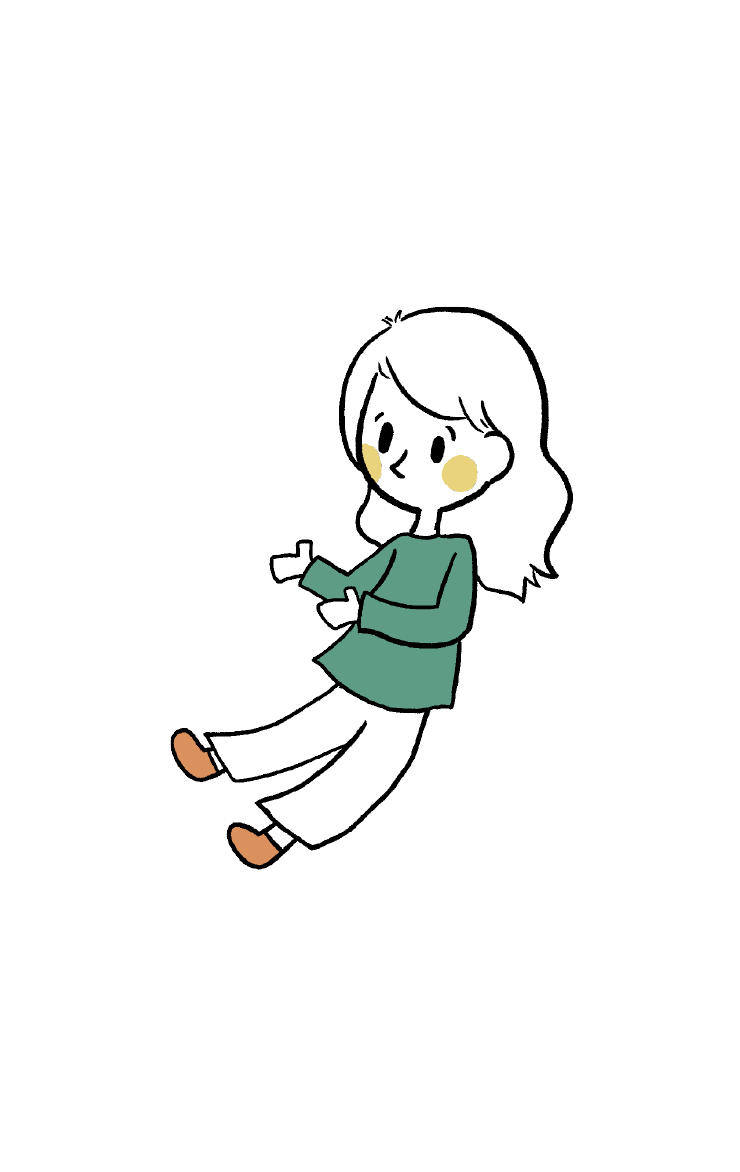
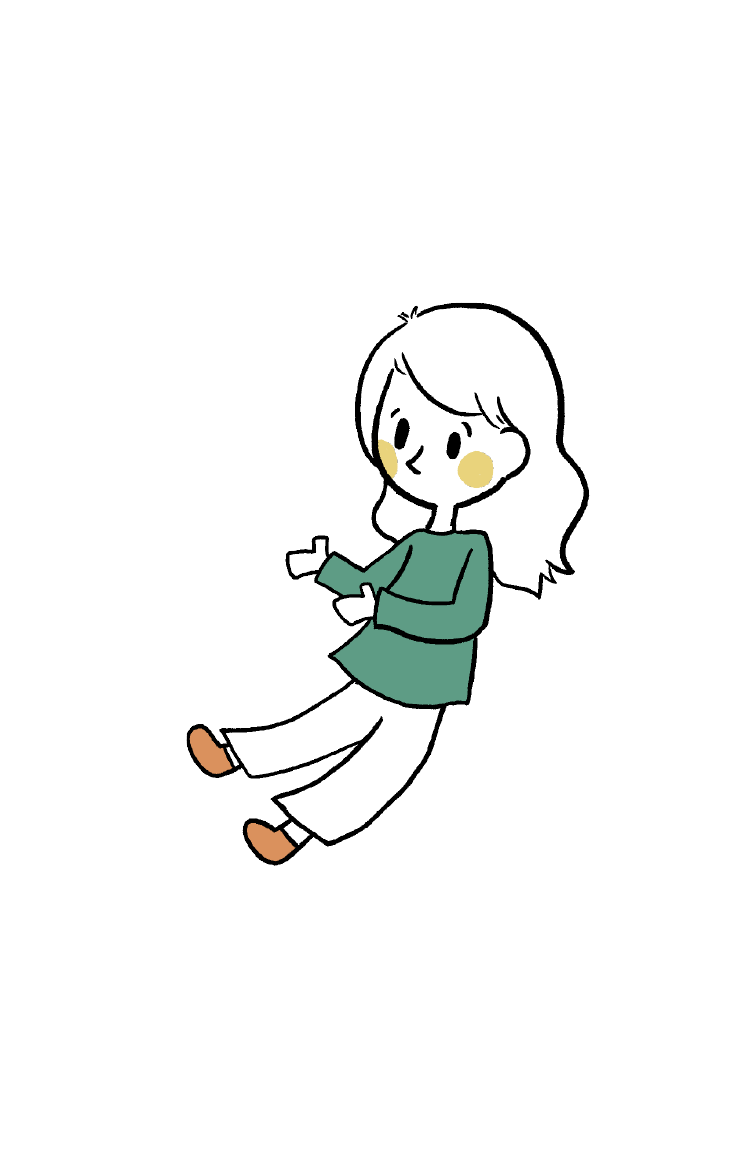
add anime, fix illustration position

Changed region(s): [[0.2176, 0.2457, 0.8081, 0.7679]]

diff --git a/src/components/pages/home/about.tsx b/src/components/pages/home/about.tsx
@@ -1,5 +1,6 @@
 import Image from 'next/image'
 import styled, { css } from 'styled-components'
+import { motion, TargetAndTransition, Transition } from 'framer-motion'
 
 import boyIllust from '@/images/boy-illustration.png'
 import boyIllustBg from '@/images/boy-illustration-bg.png'
@@ -15,6 +16,47 @@ import {
 } from '@/styles'
 import { LineBreak, ExternalLink } from '@/components/parts'
 
+const targetAndTransition: TargetAndTransition = {
+  y: [
+    ...Array(10)
+      .fill(0)
+      .map((n: number, i) => `${n + i + 1}px`),
+    ...Array(10)
+      .fill(0)
+      .map((n: number, i) => `${n + i + 1}px`)
+      .reverse(),
+  ],
+}
+
+const transitionBase: Transition = {
+  duration: 2,
+  ease: `easeInOut`,
+  loop: Infinity,
+}
+
+const IllustrationBg: React.FC = ({ children }) => (
+  <motion.div
+    animate={targetAndTransition}
+    transition={transitionBase}
+    style={{ position: `absolute` }}
+  >
+    {children}
+  </motion.div>
+)
+
+const IllustrationMain: React.FC = ({ children }) => (
+  <motion.div
+    animate={targetAndTransition}
+    transition={{
+      ...transitionBase,
+      delay: 1,
+    }}
+    style={{ position: `absolute` }}
+  >
+    {children}
+  </motion.div>
+)
+
 interface IAboutProps {
   sectionId: string
 }
@@ -29,20 +71,20 @@ export const About = ({ sectionId }: IAboutProps) => (
         <InlineBlock>発見する二日間</InlineBlock>
       </Lead>
       <ImageContainerLeft>
-        <ImageInner>
+        <IllustrationBg>
           <Image src={boyIllustBg} alt="" width={370} height={586} />
-        </ImageInner>
-        <ImageInner>
+        </IllustrationBg>
+        <IllustrationMain>
           <Image src={boyIllust} alt="" width={370} height={586} />
-        </ImageInner>
+        </IllustrationMain>
       </ImageContainerLeft>
       <ImageContainerRight>
-        <ImageInner>
+        <IllustrationBg>
           <Image src={girlIllustBg} alt="" width={370} height={586} />
-        </ImageInner>
-        <ImageInner>
+        </IllustrationBg>
+        <IllustrationMain>
           <Image src={girlIllust} alt="" width={370} height={586} />
-        </ImageInner>
+        </IllustrationMain>
       </ImageContainerRight>
       <Paragraph>
         <LineBreak>
@@ -96,6 +138,7 @@ const Lead = styled.h3`
 
   grid-column: 1 / 3;
   grid-row: 2 / 3;
+  margin-bottom: 20px;
 
   @media (min-width: ${Style.BREAKPOINT.MD}px) {
     grid-column: 2 / 3;
@@ -109,9 +152,10 @@ const InlineBlock = styled.span`
 
 const imageStyle = css`
   display: flex;
-  align-items: center;
-  margin-bottom: 28px;
   position: relative;
+  align-items: center;
+  min-height: 280px;
+  margin-bottom: 28px;
 `
 
 const ImageContainerLeft = styled.div`
@@ -130,10 +174,6 @@ const ImageContainerRight = styled.div`
     grid-column: 3 / 4;
     grid-row: 1 / 4;
   }
-`
-
-const ImageInner = styled.div`
-  position: absolute;
 `
 
 const Paragraph = styled.p`
